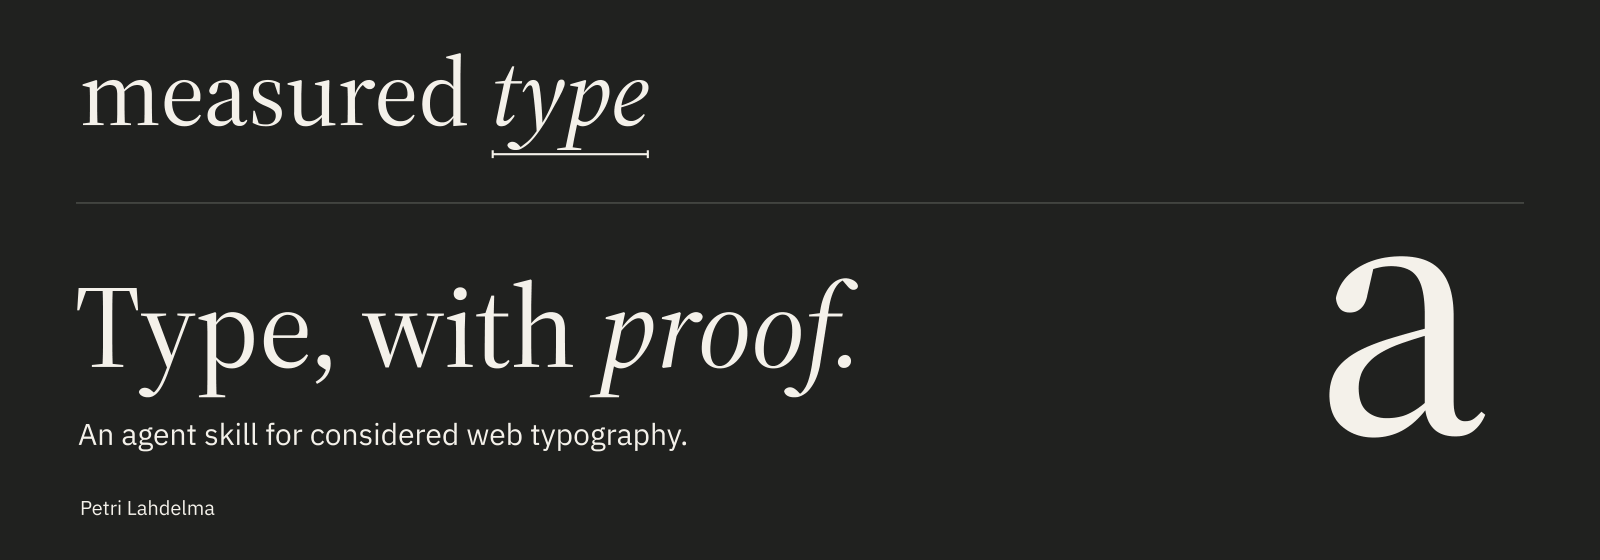
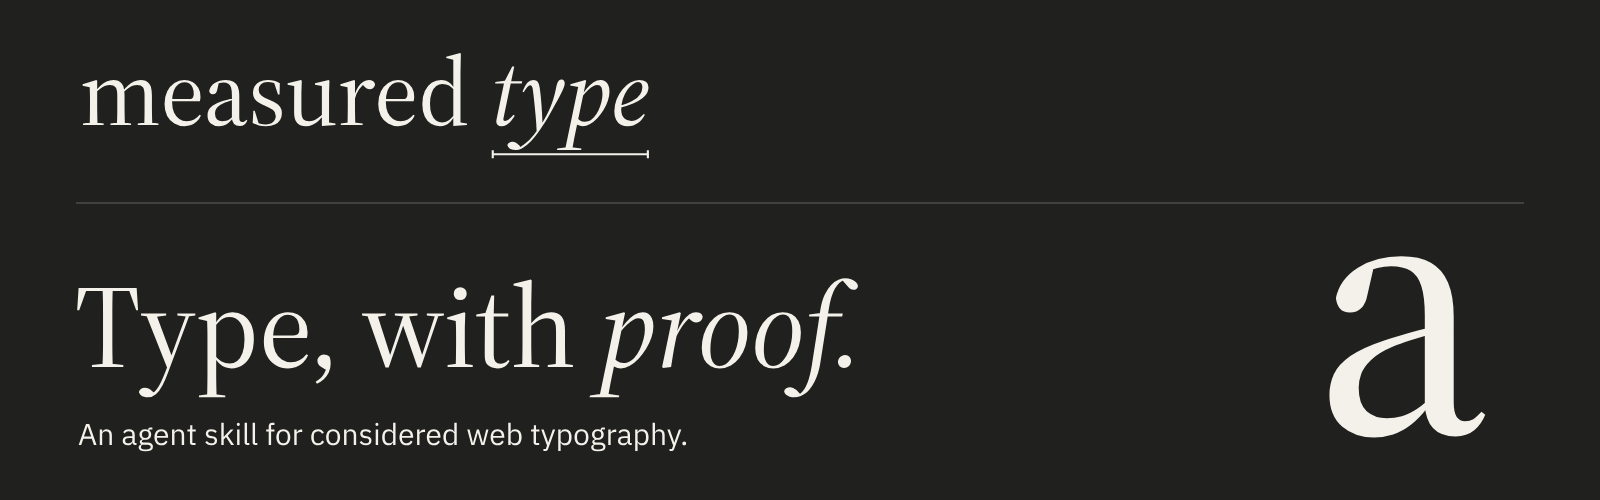
docs: drop the name from the README header and link the Bringhurst book
The header artwork no longer carries the author line; the canvas is
cropped from 1600x560 to 1600x500 so the margins balance, and the PNG
fallbacks are re-rendered from the SVGs. Both mentions of The Elements of
Typographic Style now link to the book.

diff --git a/README.md b/README.md
@@ -140,7 +140,7 @@ from the outline and it lands on the letter.
 2. **Direction and language before anything else.** Every rule is written
    flow-relative, with `lang` and `dir` in place, so an RTL or vertical edition
    is a content change rather than a rewrite.
-3. **Decide with the rules.** Bringhurst's *Elements of Typographic Style*,
+3. **Decide with the rules.** Bringhurst's [*The Elements of Typographic Style*](https://www.amazon.com/dp/0881792128),
    numbered so reviews can cite `§2.1.2`, translated into CSS that ships today.
 4. **Measure what can be measured.** Characters per line, zoom ratios,
    rendered hard spaces, font coverage.
@@ -221,7 +221,9 @@ SIL Open Font License. The Measured Type name and the artwork in
 `.github/brand/` identify this project and are not licensed for other use.
 See [LICENSE](LICENSE).
 
-The rules follow Robert Bringhurst's *The Elements of Typographic Style* and the
-rule order of webtypography.net. They are paraphrased and the CSS is rewritten
-for current browsers. The wordmark is set in Source Serif 4 by Adobe; the
+The rules follow Robert Bringhurst's
+[*The Elements of Typographic Style*](https://www.amazon.com/dp/0881792128) and
+the rule order of webtypography.net. They are paraphrased and the CSS is
+rewritten for current browsers. The skill is a working translation, not a
+substitute: if it is useful to you, buy the book. The wordmark is set in Source Serif 4 by Adobe; the
 brand's interface type is IBM Plex. Both are released under the OFL.
